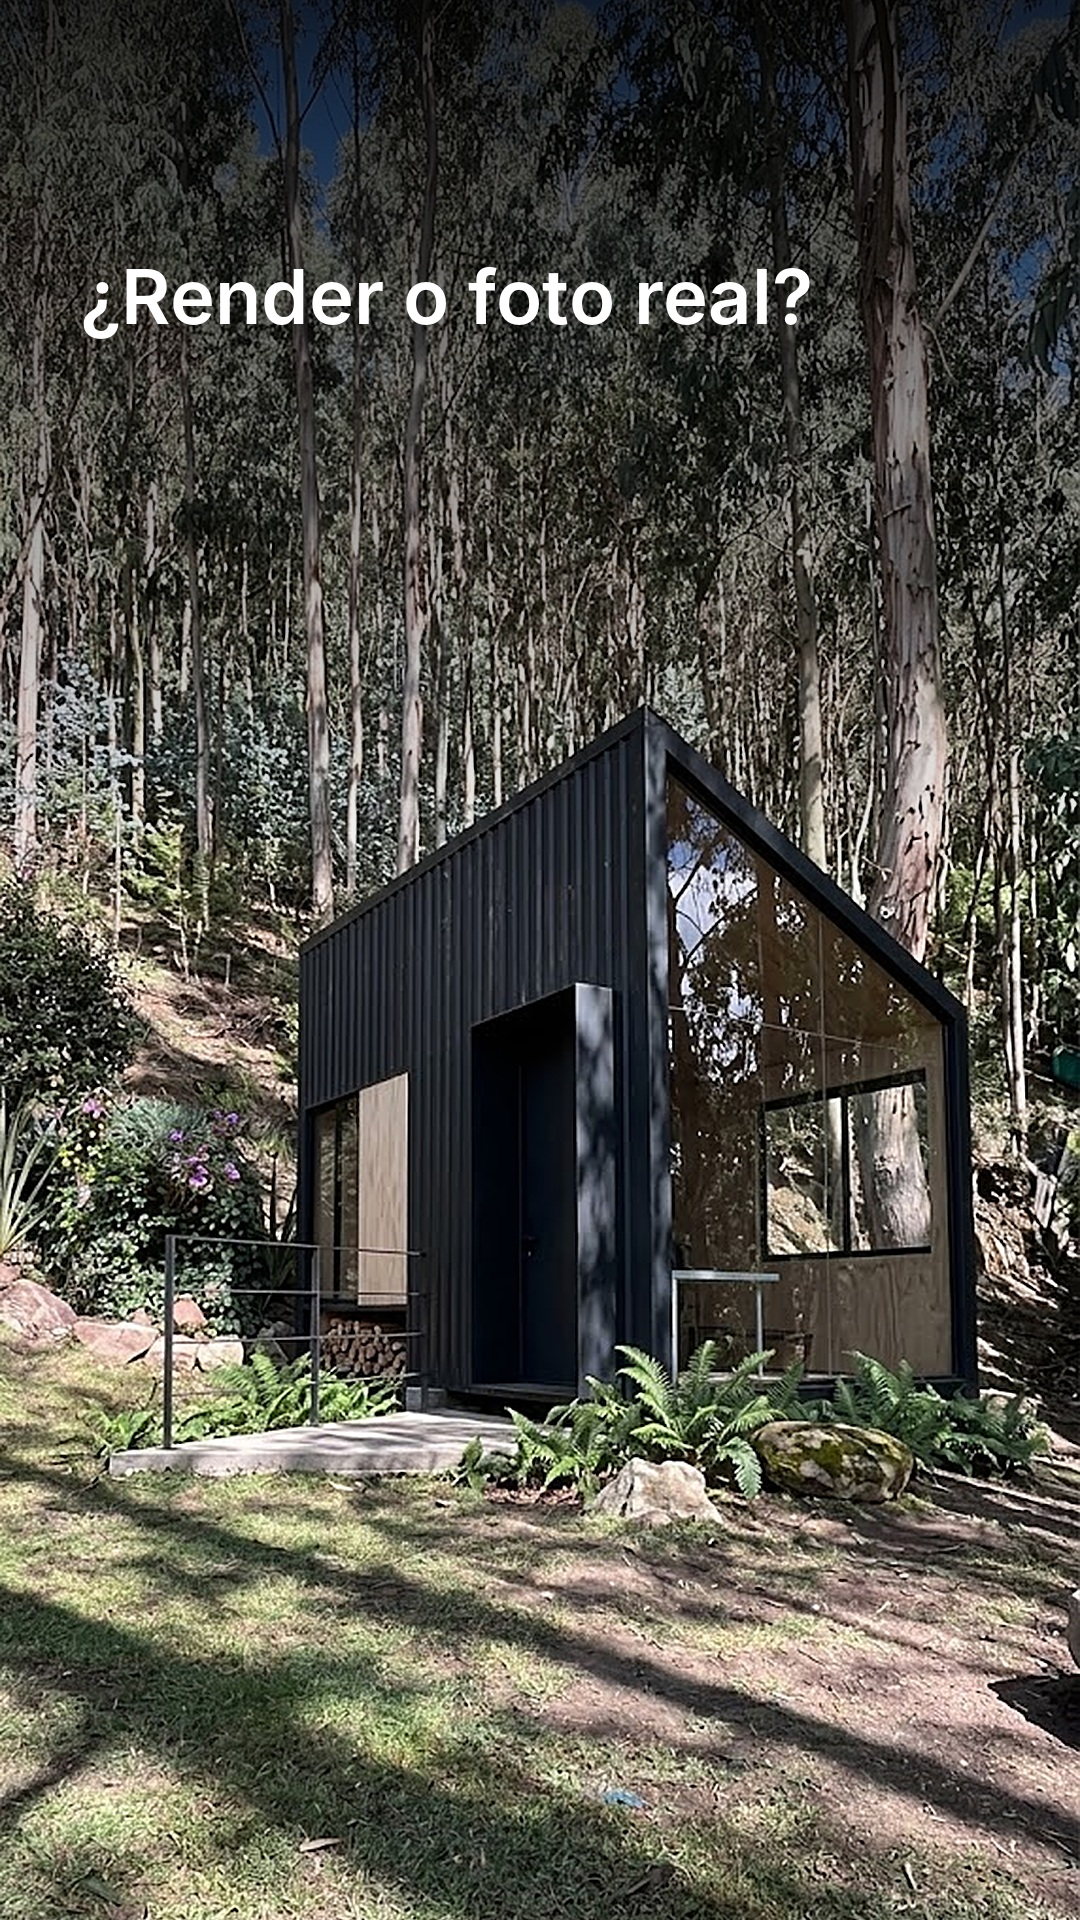
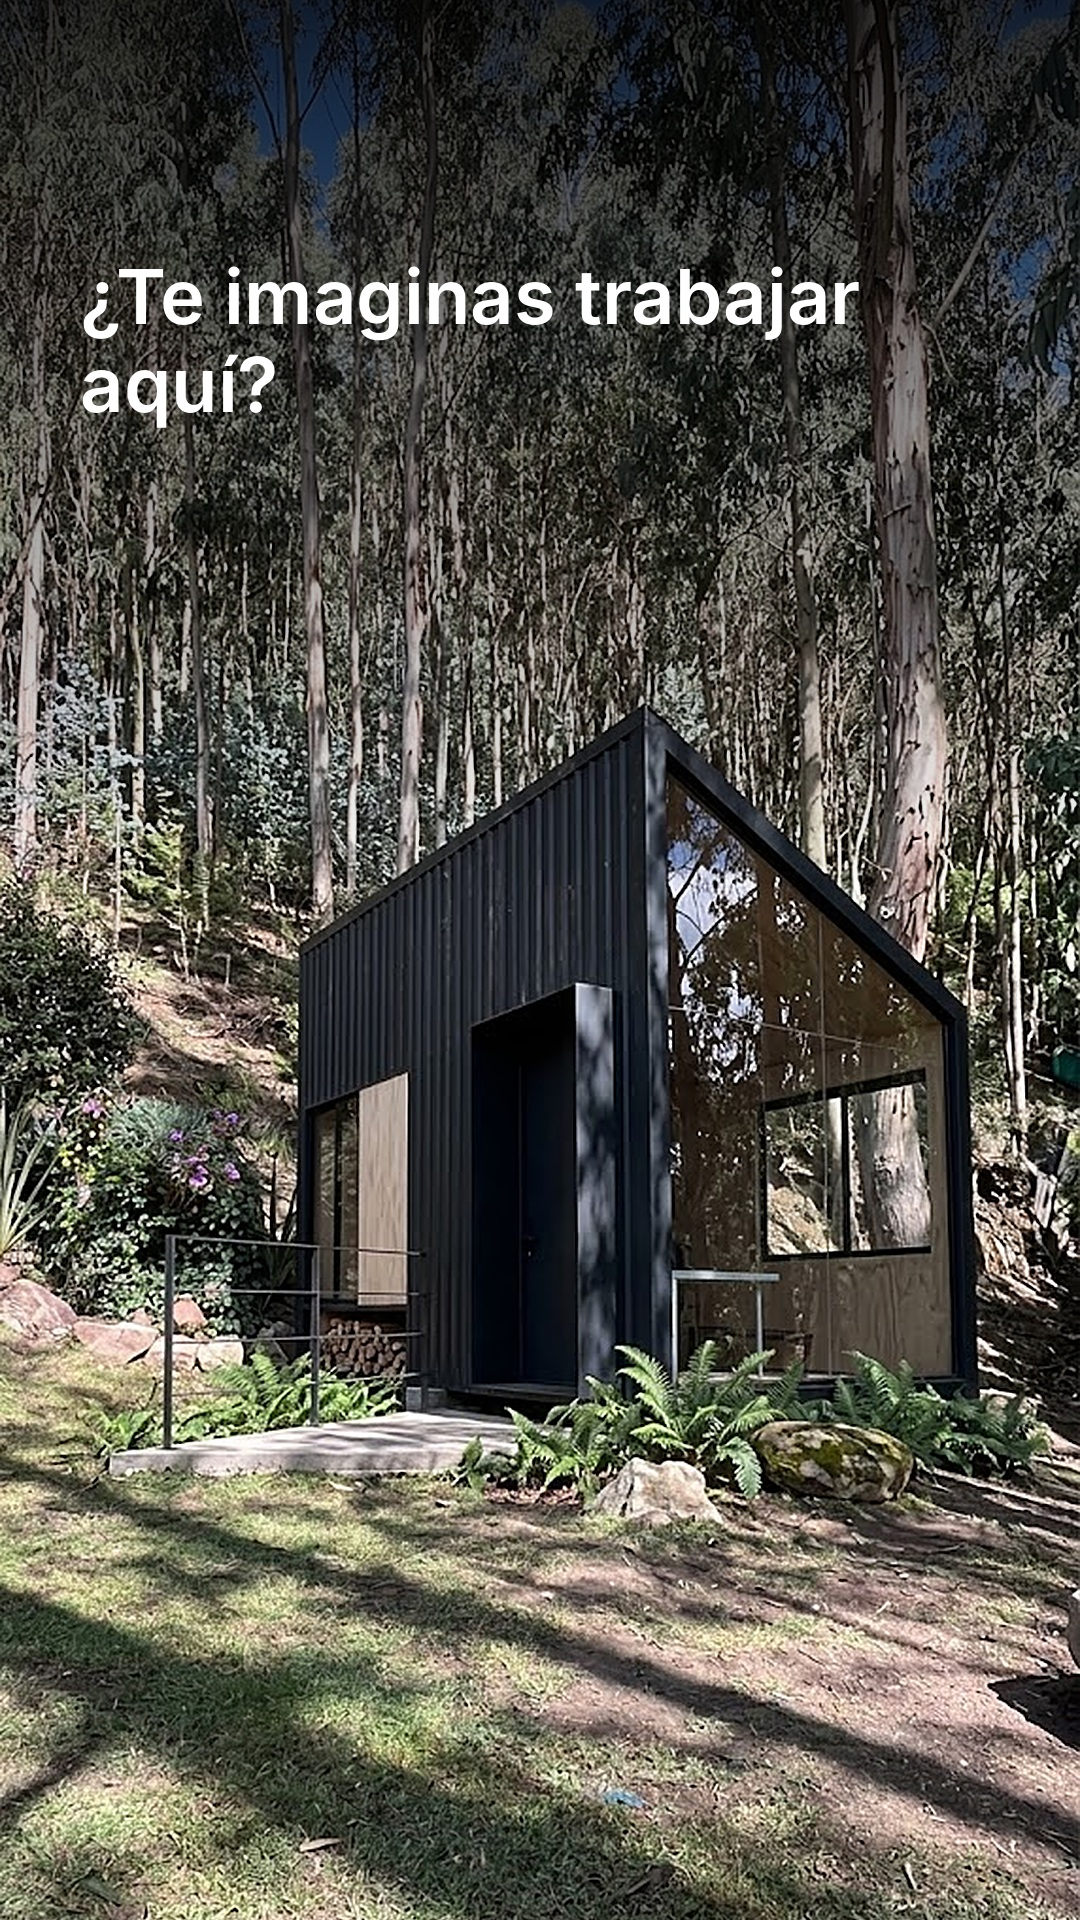
Semana 01: nueva encuesta H1
Claude-Session: https://claude.ai/code/session_01GfMbbZJcYeKUxQ1XVs6reN

Changed region(s): [[0.0611, 0.125, 0.7944, 0.2188]]

diff --git a/semana-01/index.html b/semana-01/index.html
@@ -33,5 +33,5 @@ Desliza para ver el recorrido completo: lote real → render → así se verá e
 ¿Ya tienes el tuyo? Escribe LOTE por DM.
 
 #arquitecturacolombia #arquitecturacomercial #lotecampestre #colegiocanino #cajica #sabanadebogota #diseñoarquitectonico #arquitecturaenmadera</div></section>
-<section><span class="when">Jue 19 y vie 20 · las subes tú</span><h2>3. Historias</h2><div class="hist"><figure><img src="historias/H1_encuesta.jpg" loading="lazy"><figcaption>Jue 19 · 12:30 p. m. — Pon el sticker de encuesta: Render / Foto real</figcaption></figure><figure><img src="historias/H2_revelacion.jpg" loading="lazy"><figcaption>Vie 20 · 12:30 p. m. — Antes y después. Sticker de enlace al reel en la franja naranja + comparte el resultado de la encuesta</figcaption></figure><figure><img src="historias/H3_proceso.jpg" loading="lazy"><figcaption>Vie 20 · 12:30 p. m. — Sticker de pregunta: ¿Qué te gustaría construir en tu lote?</figcaption></figure></div></section>
+<section><span class="when">Jue 19 y vie 20 · las subes tú</span><h2>3. Historias</h2><div class="hist"><figure><img src="historias/H1_encuesta.jpg" loading="lazy"><figcaption>Jue 19 · 12:30 p. m. — Sticker de encuesta: ¡Sí! / Prefiero la ciudad</figcaption></figure><figure><img src="historias/H2_revelacion.jpg" loading="lazy"><figcaption>Vie 20 · 12:30 p. m. — Antes y después. Sticker de enlace al reel en la franja naranja + comparte el resultado de la encuesta</figcaption></figure><figure><img src="historias/H3_proceso.jpg" loading="lazy"><figcaption>Vie 20 · 12:30 p. m. — Sticker de pregunta: ¿Qué te gustaría construir en tu lote?</figcaption></figure></div></section>
 </body></html>
